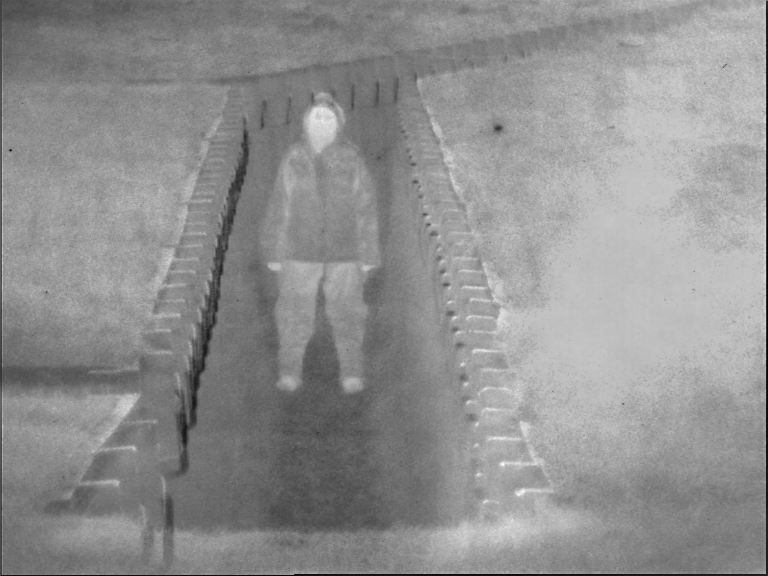
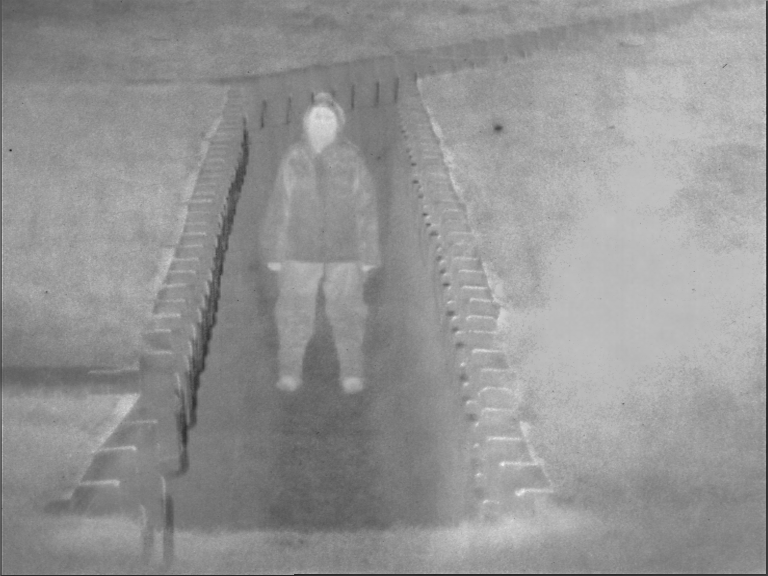
Initial commit

Changed region(s): [[0.4062, 0.9688, 1.0, 1.0]]

diff --git a/image_fusion.py b/image_fusion.py
@@ -5,6 +5,7 @@ import numpy as np
 import pywt
 import matplotlib.pyplot as plt
 from imageio import imread
+from imageio import imsave
 from scipy import linalg as la
 
 
@@ -263,7 +264,9 @@ for id_x in range(1, 22, 1):
     plt.imshow(pic, 'gray')
     plt.axis('off')
 
-    plt.imsave("fused_image/fused%d.png" % id_x, pic, cmap="gray")
+    pict = pic * 255
+    pict = pict.astype(np.uint8)
+    imsave("fused_image/fused%d.png" % id_x, pict)
 
     plt.figure(figsize=(15, 10))
     plt.subplot(2, 2, 1)
